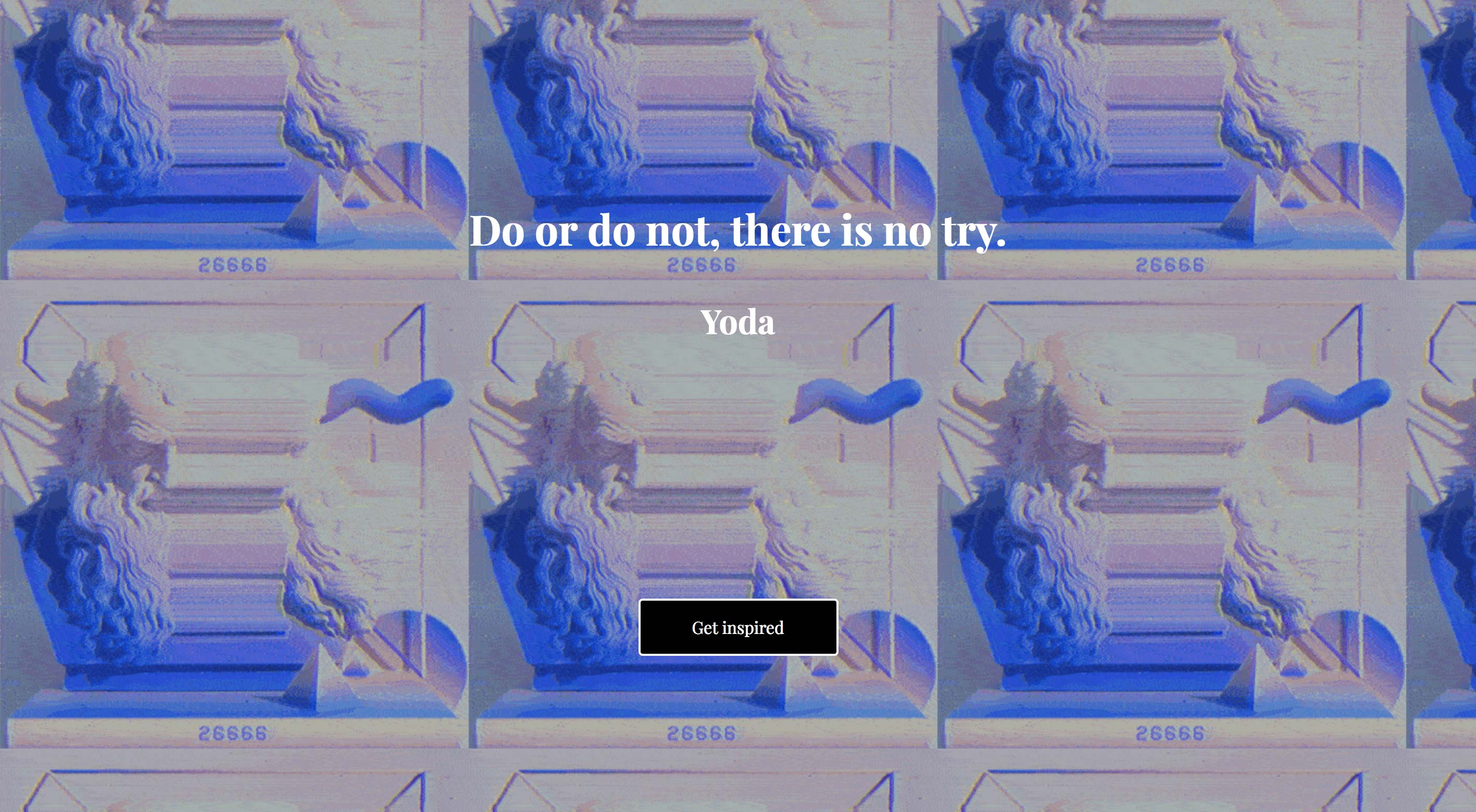
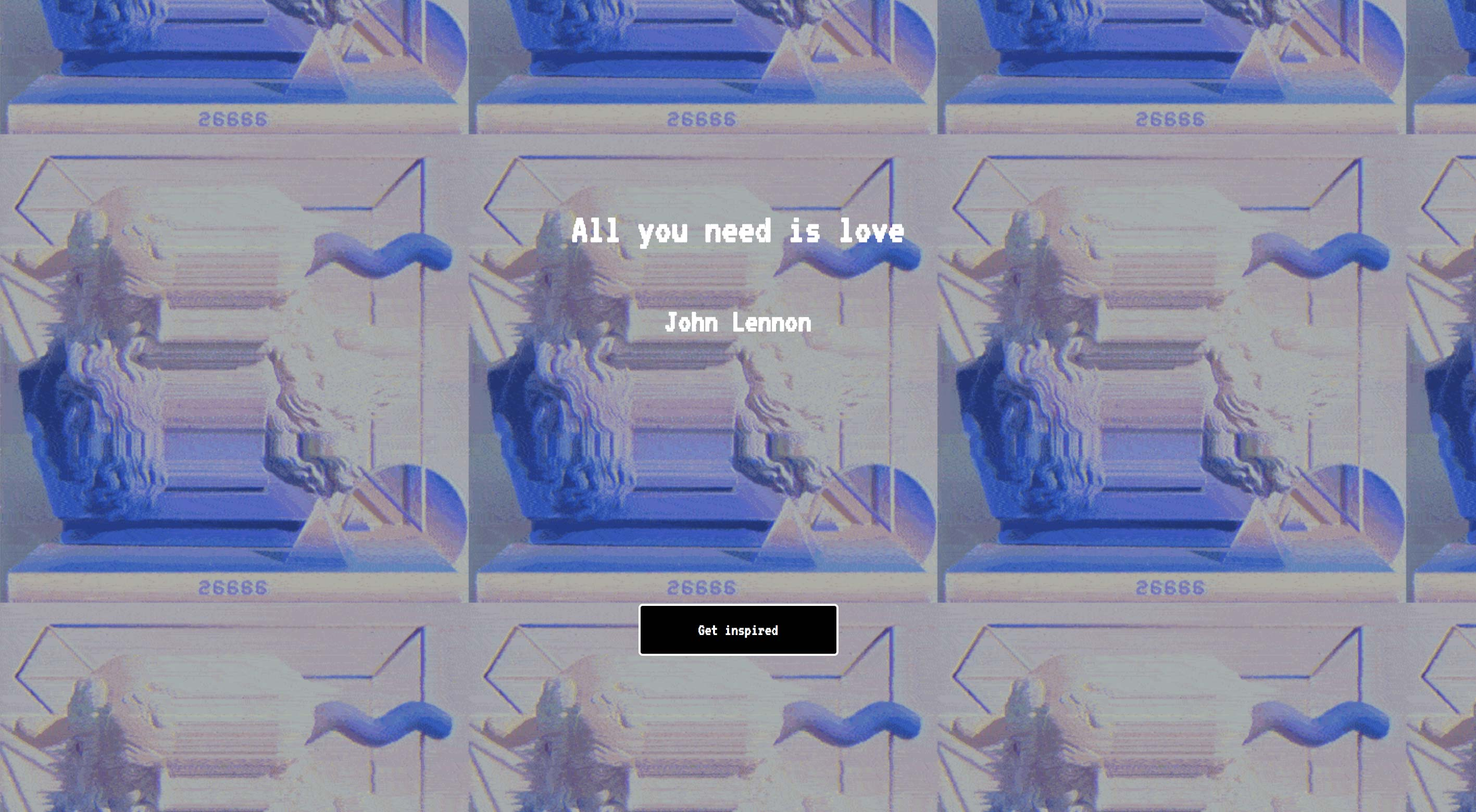
change font

diff --git a/css/styles.css b/css/styles.css
@@ -1,7 +1,7 @@
 body {
   background-image:url('../img/wallpaper.gif');
   color: white;
-  font-family: 'Playfair Display', serif;
+  font-family: 'VT323', monospace;
   -webkit-animation: slide 15s linear infinite;
 }
 
@@ -16,11 +16,11 @@ body {
 }
 
 #quotee {
-  font-size: 0.95em;
+  font-size: 1.25em;
 }
 
 #quote {
-  font-size: 1.25em;
+  font-size: 1.6em;
 }
 
 #loadQuote {

diff --git a/index.html b/index.html
@@ -7,6 +7,8 @@
   <link href='https://fonts.googleapis.com/css?family=Playfair+Display:400,400italic,700,700italic' rel='stylesheet' type='text/css'>
   <link rel="stylesheet" href="css/normalize.css">
   <link rel="stylesheet" href="css/styles.css">
+  <link href="https://fonts.googleapis.com/css?family=VT323" rel="stylesheet">
+
 
 </head>
 <body>

diff --git a/README.md b/README.md
@@ -1,5 +1,4 @@
 # random-quote-generator
-a random quote generator by jQuery<br>
-Actaully it's a rap-line generator, verses chosen from some of the biggest hiphop memes of 2017
- <br>[live demo](https://zhenghaohe.github.io/random-quote-generator/)
-![picture](https://github.com/zhenghaohe/random-quote-generator/blob/master/index.png)
+a random quote generator by jQuery
+Actaully it's a rap-line generator, verses chosen from some biggest hiphop memes of 2017
+ [live demo](https://zhenghaohe.github.io/random-quote-generator/)
